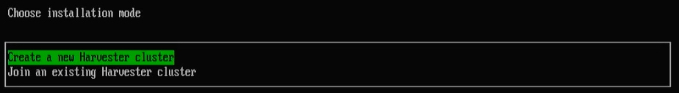
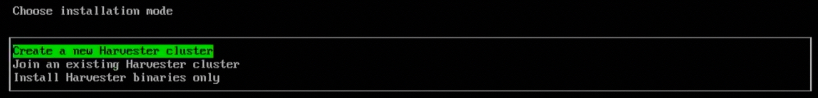
update to 1.3.0

Changed region(s): [[0.0, 0.3656, 1.0, 0.9462], [0.0, 0.0645, 0.2165, 0.1935]]

diff --git a/README.md b/README.md
@@ -24,7 +24,7 @@
 
 ## Hardware
 
-Basic minimum 32gb of ram and 8 cores PER node. 1, 3, or 5 nodes is ideal. As fast as networking as possible. 
+Basic minimum 32gb of ram and 8 cores PER node. 1, 3, or 5 nodes is ideal. As fast as networking as possible.
 
 ## Background
 
@@ -34,34 +34,39 @@ Harvester is a modern Hyperconverged infrastructure (HCI) solution built for bar
 
 [Watch the manual install video](https://youtu.be/mLXrSW8DCfk)?
 
-The docs have a [config example](https://docs.harvesterhci.io/v1.2/install/harvester-configuration/) if you are looking to install via PXE.
-
-We are going to use the [USB install docs](https://docs.harvesterhci.io/v1.2/install/usb-install). From a [Ventoy](http://ventoy.net/) thumb drive.
-
-**ISO** : https://releases.rancher.com/harvester/v1.2.1/harvester-v1.2.1-amd64.iso
+The docs have a [config example](https://docs.harvesterhci.io/v1.3/install/harvester-configuration/) if you are looking to install via PXE.
 
 ## Manual Install Steps
 
-### Boot from ISO
+### Boot Options
 
-Select the Harvester ISO.  
-![ventoy](images/ventoy.jpg)  
-Select `Boot in normal mode`.
+#### USB/ISO
+
+We are not going to use USB for the workshop. However it is a valid install method.  
+USB Docs: https://docs.harvesterhci.io/v1.3/install/usb-install  
+**ISO** : https://releases.rancher.com/harvester/v1.3.0/harvester-v1.3.0-amd64.iso
+
+#### Network - iPXE <-- Workshop
+
+For the workshop we are going to use PXE booting since it is a little faster.  
+Check the PXE docs for how to set it up https://docs.harvesterhci.io/v1.3/install/pxe-boot-install.  
+Select Network Boot on the device.  
+![pxe](images/ipxe.jpg)
+
+#### Hardware Check
+
+You may see a Hardware Check   
+![check](images/check.jpg)  
 
 #### Installation Mode
 
 If this is the first node choose `Create a new Harvester cluster`.  
 ![mode](images/mode.jpg)  
 
-#### Installation Disk Selection
+#### Installation Disk 
 
-For the workshop we are going to use the `nvme` drive. In production we should split the boot and the data drives.  
+Since we are using smaller hardware for the workshop we will only see one drive. Please pay attention to the Persistent size. This is partition is used for images and other system data. NOT VM data. In production split the volumes.  
 ![drive](images/drive.jpg)  
-
-#### Data Disk Selection
-
-For the workshop we only have 1 drive. `Use the installation disk...`
-![data](images/data.jpg)  
 
 #### Hostname
 
@@ -70,9 +75,10 @@ Pick a fun hostname!
 
 #### Network
 
-For the workshop we are going to use a static IP in the 192.168.X.X range. Select the NIC that is `up`.  
+For the workshop we are going to use a static IP in the 192.168.8.X range. Select the NIC that is `up`.  
 ![network](images/network.jpg)  
 
+**Harvester requires at least 10Gbps for production use!**  
 VLAN ID = `null`  
 Bond Mode = `Active-Backup`  
 IPv4 Method = `Static`  
@@ -109,15 +115,10 @@ Enter a local NTP if we have one. Or use the default is the node is online.
 If we need a proxy to reach the internet we can enter it here.  
 ![proxy](images/proxy.jpg)  
 
-#### Pre-Load SSH Keys
-
-Harvester can load ssh keys from any https service.  
-![ssh_keys](images/ssh_keys.jpg)  
-
 #### Remote Config
 
 Harvester can load additional configs from an http service.  
-Feel free to look at the [config example docs](https://docs.harvesterhci.io/v1.2/install/harvester-configuration/).  
+Feel free to look at the [config example docs](https://docs.harvesterhci.io/v1.2/install/harvester-configuration/). This can be 100% automated with iPXE.  
 ![remote_config](images/remote_config.jpg)  
 
 #### Confirm Installation
